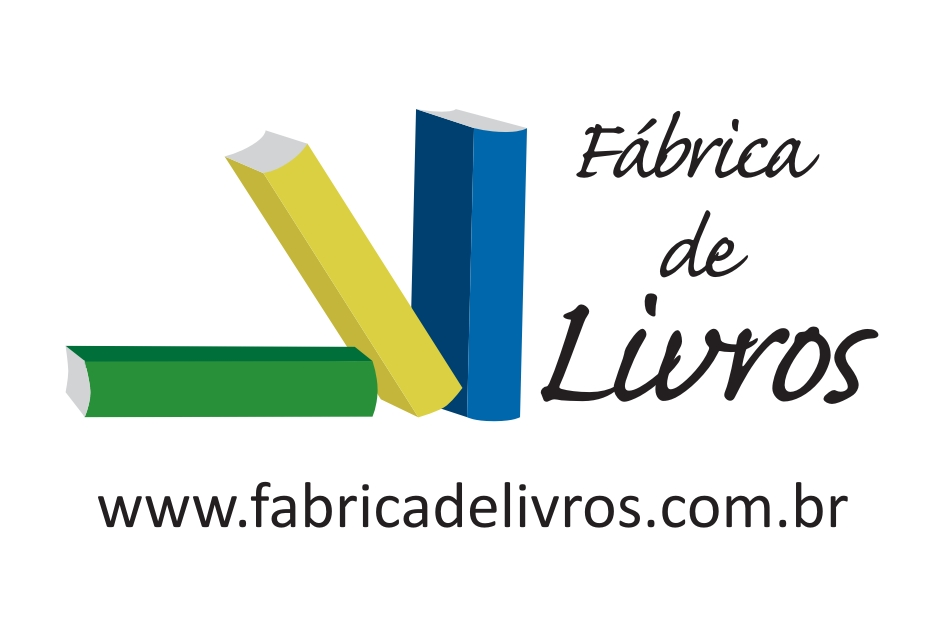
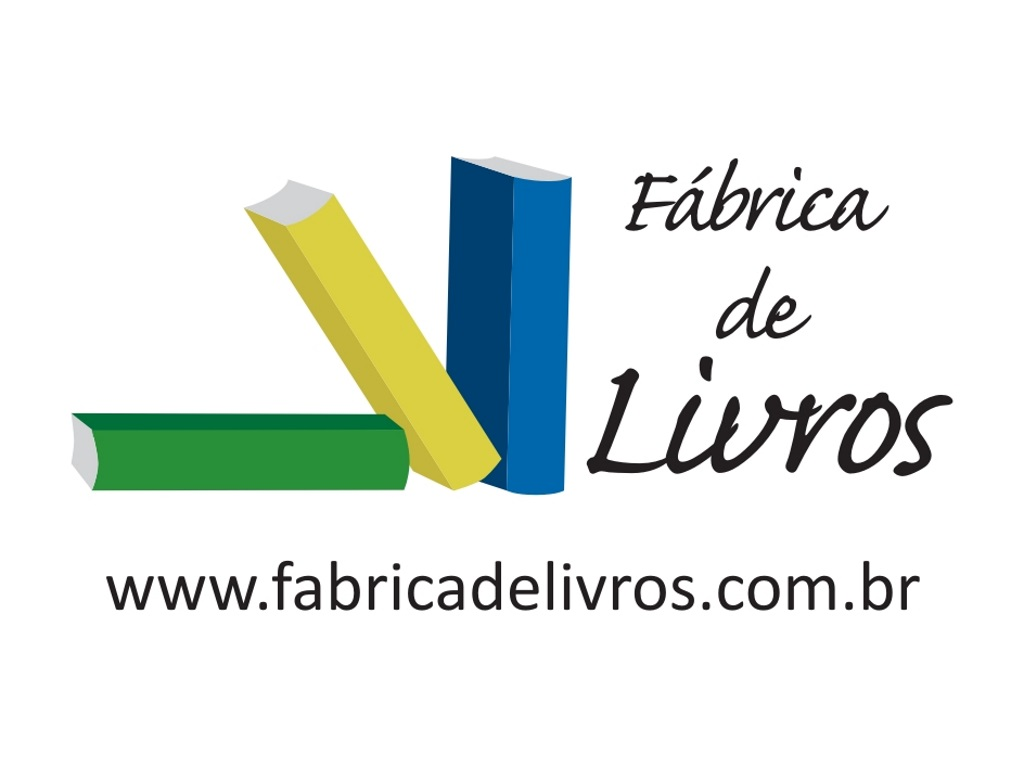
Versão 2.8.500
Correções gerais no APP.  Icones e imagens com resolução corrigida e
links corrigidos

diff --git a/www/index.html b/www/index.html
@@ -96,7 +96,7 @@ $(window).load(function() {
 			      <div id="container">
 			        <div id="slider" class="flexslider">
 			          <ul class="slides">
-			            <li> <a href="http://www.scortecci.com.br"><img src="images/scortecci.jpg" width="480" /></a> </li>
+			            <li> <a href="http://www.scortecci.com.br"><img src="images/grupo.jpg" width="480" /></a> </li>
 			            <li> <a href="http://www.amigosdolivro.com.br"><img src="images/AMIGOS.jpg" width="480" /></a> </li>
 			            <li> <a href="http://www.asabeca.com.br"><img src="images/ASABECA.jpg" width="480" /></a> </li>
 			            <li> <a href="http://www.scortecci.com.br"><img src="images/EDITORA.jpg" width="480" /></a> </li>
@@ -105,12 +105,12 @@ $(window).load(function() {
 			            <li> <a href="http://www.fabicradelivros.com.br"><img src="images/LIVROS.jpg" width="480" /></a> </li>
 			            <li> <a href="http://www.pingodeletra.com.br"><img src="images/PINGO.jpg" width="480" /></a> </li>
 			            <li> <a href="http://www.portaldoescritor.com.br"><img src="images/PORTAL.jpg" width="480" /></a> </li>
-			            <li> <a href="http://portaldoescritorscortecci.blogspot.com.br/"><img src="images/PREMIOS.jpg" width="480" /></a> </li>
-		              </ul>
+			            <li> <a href="http://portaldoescritorscortecci.blogspot.com.br/"><img src="images/Blogdoescritor.jpg" width="480" /></a> </li>
+						</ul>
 		            </div>
 			        <div id="carousel" class="flexslider" style="display:none;">
 			          <ul class="slides">
-			            <li> <a href="http://www.scortecci.com.br"><img src="images/scortecci.jpg" width="480" /></a> </li>
+			            <li> <a href="http://www.scortecci.com.br"><img src="images/grupo.jpg" width="480" /></a> </li>
 			            <li> <a href="http://www.amigosdolivro.com.br"><img src="images/AMIGOS.jpg" width="480" /></a> </li>
 			            <li> <a href="http://www.asabeca.com.br"><img src="images/ASABECA.jpg" width="480" /></a> </li>
 			            <li> <a href="http://www.scortecci.com.br"><img src="images/EDITORA.jpg" width="480" /></a> </li>
@@ -119,7 +119,8 @@ $(window).load(function() {
 			            <li> <a href="http://www.fabicradelivros.com.br"><img src="images/LIVROS.jpg" width="480" /></a> </li>
 			            <li> <a href="http://www.pingodeletra.com.br"><img src="images/PINGO.jpg" width="480" /></a> </li>
 			            <li> <a href="http://www.portaldoescritor.com.br"><img src="images/PORTAL.jpg" width="480" /></a> </li>
-			            </ul>
+			             <li> <a href="http://portaldoescritorscortecci.blogspot.com.br/"><img src="images/Blogdoescritor.jpg" width="480" /></a> </li>
+                         </ul>
 		            </div>
 		          </div>
 		        </div>
@@ -127,15 +128,15 @@ $(window).load(function() {
 		      </div>
               <!-- #main-container -->
 		<ul data-role="listview">
-			<li><a href="index1.html" target="_blank">QUEM SOMOS</a></li>
+			<li><a href="index1.html" target="_parent">QUEM SOMOS</a></li>
 			<li><a href="#" onclick="window.open('http://www.asabeca.com.br/', '_system');">LIVRARIA ASABEÇA</a></li>
             <li><a href="http://www.asabeca.com.br/" target="new" onclick="window.open('http://www.scortecci.com.br/formulario.php?id=304', '_system');">FALE CONOSCO</a></li>
 	  </ul>		
 	</div>
 	<div data-role="footer" data-theme="b" data-position="fixed">
-	<img src="img/menu-fb.jpg" width="32" height="32" alt="" onClick="window.plugins.socialsharing.shareViaFacebookWithPasteMessageHint('Eu já tenho o aplicativo do GRUPO EDITORIAL SCORTECCI. Baixe você também e fique por dentro das novidades.', null /* img */, 'http://www.ubrafe.org.br', 'Mensagem pronta para colar!', function() {console.log('share ok')}, function(errormsg){alert('Não foi possível compartilhar via Facebook!')})"/>
+	<img src="img/menu-fb.jpg" width="32" height="32" alt="" onClick="window.plugins.socialsharing.shareViaFacebookWithPasteMessageHint('Eu já tenho o aplicativo do GRUPO EDITORIAL SCORTECCI. Baixe você também e fique por dentro das novidades.', null /* img */, 'http://www.scortecci.com.br', 'Mensagem pronta para colar!', function() {console.log('share ok')}, function(errormsg){alert('Não foi possível compartilhar via Facebook!')})"/>
 
-  <img src="img/menu-tw.jpg" alt="" onClick="window.plugins.socialsharing.shareViaTwitter('Eu já tenho o aplicativo do GRUPO EDITORIAL SCORTECCI. Baixe você também e fique por dentro das novidades.')"/><img src="img/menu_wa.png" alt="" onClick="window.plugins.socialsharing.shareViaWhatsApp('Eu já tenho o aplicativo do GRUPO EDITORIAL SCORTECCI. Baixe você também e fique por dentro das novidades.', null /* img */, 'http://www.ubrafe.org.br', function() {console.log('share ok')}, function(errormsg){alert('Não foi possível compartilhar via Whatsapp!')})"/><img src="img/menu-share.jpg" alt="" width="32" onClick="window.plugins.socialsharing.share('UMC+UNIVERSIDADE', 'Eu já tenho o aplicativo do GRUPO EDITORIAL SCORTECCI. Baixe você também e fique por dentro das novidades.', null, 'http://www.ubrafe.org.br')"/>
+  <img src="img/menu-tw.jpg" alt="" onClick="window.plugins.socialsharing.shareViaTwitter('Eu já tenho o aplicativo do GRUPO EDITORIAL SCORTECCI. Baixe você também e fique por dentro das novidades.')"/><img src="img/menu-wa.jpg" alt="" onClick="window.plugins.socialsharing.shareViaWhatsApp('Eu já tenho o aplicativo do GRUPO EDITORIAL SCORTECCI. Baixe você também e fique por dentro das novidades.', null /* img */, 'http://www.ubrafe.org.br', function() {console.log('share ok')}, function(errormsg){alert('Não foi possível compartilhar via Whatsapp!')})"/><img src="img/menu-share.jpg" alt="" width="32" onClick="window.plugins.socialsharing.share('UMC+UNIVERSIDADE', 'Eu já tenho o aplicativo do GRUPO EDITORIAL SCORTECCI. Baixe você também e fique por dentro das novidades.', null, 'http://www.ubrafe.org.br')"/>
   <div data-role="navbar">
 		<ul>
 			<li class="ui-btn-active ui-state-persist"><a href="#page" data-icon="grid" class="ui-btn-active">Inicio</a></li>
@@ -150,7 +151,7 @@ $(window).load(function() {
 		<h1>Grupo Editorial Scortecci</h1>
 	</div>
 	<div data-role="content">	
-<img src="images/scortecci.jpg" width="320"alt=""/>
+<img src="images/grupo.jpg" width="320"alt=""/>
 <p><strong>QUEM SOMOS</strong><br>
   <br>
   A <strong>Scortecci</strong> nasceu em agosto de 1982, uma sexta-feira 13, na Galeria Pinheiros, loja 13, na Rua Teodoro Sampaio 1704, São Paulo, Capital.<br>
@@ -177,18 +178,18 @@ $(window).load(function() {
 	  <p>Visite	nossas	páginas nas Redes Sociais. Deixe sua contribuição, sugestão ou crítica. Siga-nos e fique sabendo em primeira mão das novidades.</p>
 	  <ul data-role="listview">
 	    <li><a href="fb://page/EspacoScortecci">
-	      <h3>GRUPO EDITORIAL SCORTECCI</h3>
+	      <h3>GRUPO EDITORIAL SCORTECCI</h3></a>
 	      
 	      <p>A Scortecci nasceu em agosto de 1982, uma sexta-feira 13, na Galeria Pinheiros, loja 13, na Rua Teodoro Sampaio, 1704, em São Paulo, Capital.</p>
           <p>Edita, imprime e comercializa livros em pequenas tiragens.</p>
 	      </a></li>
 	    <li><a href="fb://page/grupoeditorialscortecci">
-        <h3>Espaço Scortecci</h3>
+        <h3>Espaço Scortecci</h3></a>
         
 	      <p>Espaço cultural para cursos, palestras, oficinas literárias e lançamentos de livros.</p>
 	      </a></li>
 	    <li><a href="fb://group/pingodeletra/">
-	      <h3>Pingo de Letra</h3>
+	      <h3>Pingo de Letra</h3></a>
 	      
 	      <p>Um &ldquo;Pingo de Letra&rdquo; para escritores de livros infantis<br>
 	        <br>
